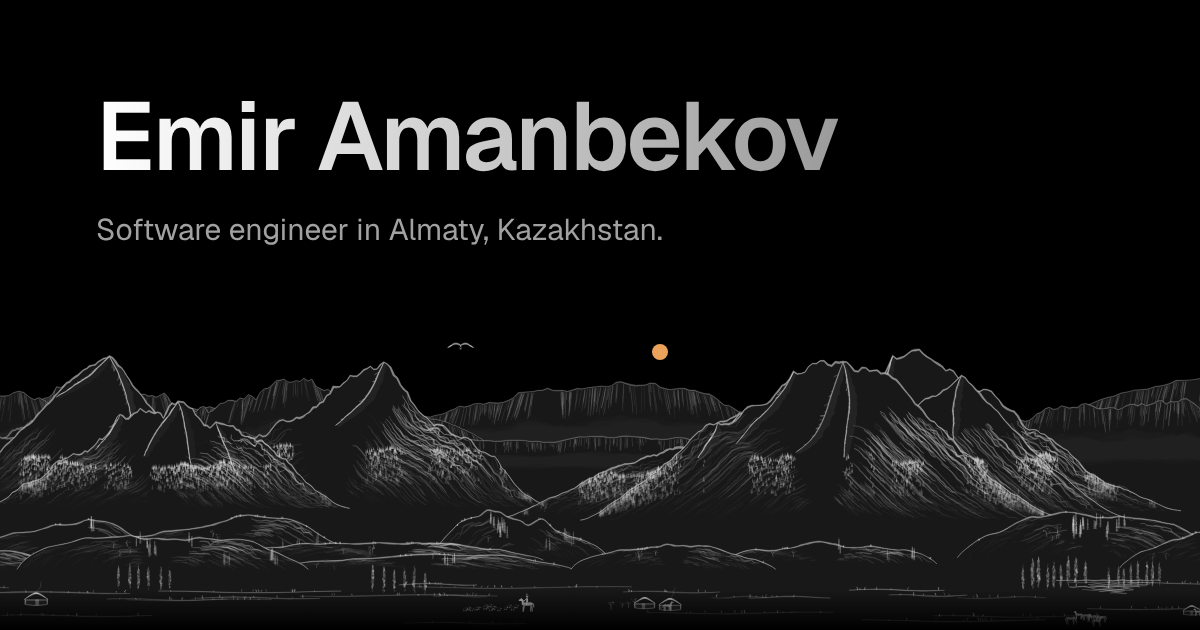
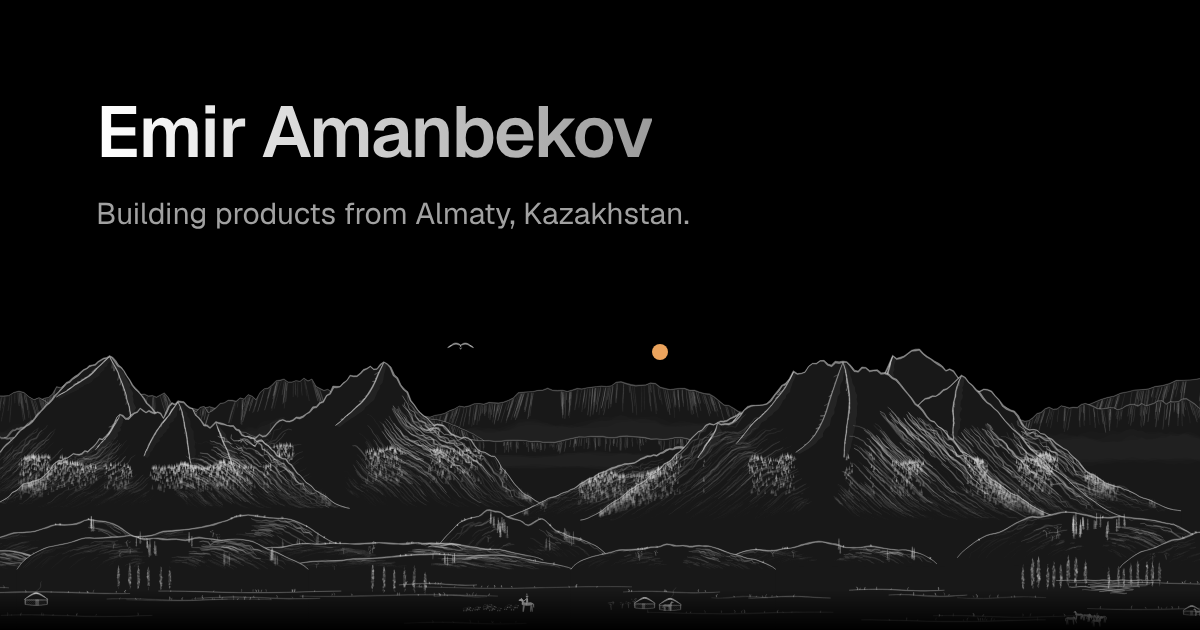
Shrink the name and say "Building products from Almaty, Kazakhstan"
The name drops from 72px to 48px (36px on phones), so it no longer
overpowers the landscape, and the line under it now reads "Building
products from Almaty, Kazakhstan." The title, descriptions and sharing
image follow.

Claude-Session: https://claude.ai/code/session_01VqFqnirgvXNtDYcnP3k4uP

Changed region(s): [[0.0617, 0.1508, 0.7092, 0.2714], [0.0617, 0.3317, 0.5858, 0.3921]]

diff --git a/site/index.html b/site/index.html
@@ -3,8 +3,8 @@
 <head>
   <meta charset="utf-8">
   <meta name="viewport" content="width=device-width, initial-scale=1">
-  <title>Emir Amanbekov · Software engineer in Almaty</title>
-  <meta name="description" content="Emir Amanbekov, also known as progremir, is a software engineer in Almaty, Kazakhstan.">
+  <title>Emir Amanbekov · Building products from Almaty</title>
+  <meta name="description" content="Emir Amanbekov, also known as progremir, builds products from Almaty, Kazakhstan.">
   <link rel="canonical" href="https://progremir.dev/">
   <meta name="color-scheme" content="dark light">
   <meta name="theme-color" content="#000000" media="(prefers-color-scheme: dark)">
@@ -13,11 +13,11 @@
   <meta property="og:site_name" content="progremir.dev">
   <meta property="og:url" content="https://progremir.dev/">
   <meta property="og:title" content="Emir Amanbekov">
-  <meta property="og:description" content="Software engineer in Almaty, Kazakhstan.">
+  <meta property="og:description" content="Building products from Almaty, Kazakhstan.">
   <meta property="og:image" content="https://progremir.dev/og.png">
   <meta property="og:image:width" content="1200">
   <meta property="og:image:height" content="630">
-  <meta property="og:image:alt" content="Emir Amanbekov, software engineer in Almaty, above a line drawing of the mountains south of the city.">
+  <meta property="og:image:alt" content="Emir Amanbekov, building products from Almaty, Kazakhstan, above an ink drawing of the Tian Shan mountains.">
   <meta name="twitter:card" content="summary_large_image">
   <meta name="twitter:creator" content="@progremir">
   <link rel="icon" href="/favicon.svg" type="image/svg+xml">
@@ -72,7 +72,7 @@
     <section class="hero" id="top" aria-labelledby="name">
       <div class="hero-copy wrap">
         <h1 class="name" id="name">Emir Amanbekov</h1>
-        <p class="lead">Software engineer in Almaty, Kazakhstan.</p>
+        <p class="lead">Building products from Almaty, Kazakhstan.</p>
         <div class="cta">
           <a class="btn" href="#contact">Get in touch<svg class="i" aria-hidden="true"><use href="#i-arrow-down"/></svg></a>
         </div>

diff --git a/site/style.css b/site/style.css
@@ -144,7 +144,7 @@ a { color: inherit; text-decoration: none; }
 .name {
   width: fit-content;
   padding-bottom: 4px;
-  font-size: 72px; line-height: 72px; font-weight: 600;
+  font-size: 48px; line-height: 48px; font-weight: 600;
   letter-spacing: -0.025em;
   background: linear-gradient(90deg, var(--grad-from), var(--grad-to));
   -webkit-background-clip: text;
@@ -325,7 +325,6 @@ html:not(.js) .sky, .no-land .sky-stage { display: none; }
   @supports (height: 1svh) {
     :root { --land: clamp(240px, min(56vw, 44svh), 640px); }
   }
-  .name { font-size: 60px; line-height: 60px; }
 }
 
 /* Phone */
@@ -336,7 +335,7 @@ html:not(.js) .sky, .no-land .sky-stage { display: none; }
   }
   .hero { padding-top: 80px; }
   .hero-copy { padding-block: 32px 48px; }
-  .name { font-size: 48px; line-height: 48px; }
+  .name { font-size: 36px; line-height: 40px; }
   .lead { font-size: 18px; line-height: 28px; }
   .cta { margin-top: 32px; }
   .section { padding-block: 80px; }
